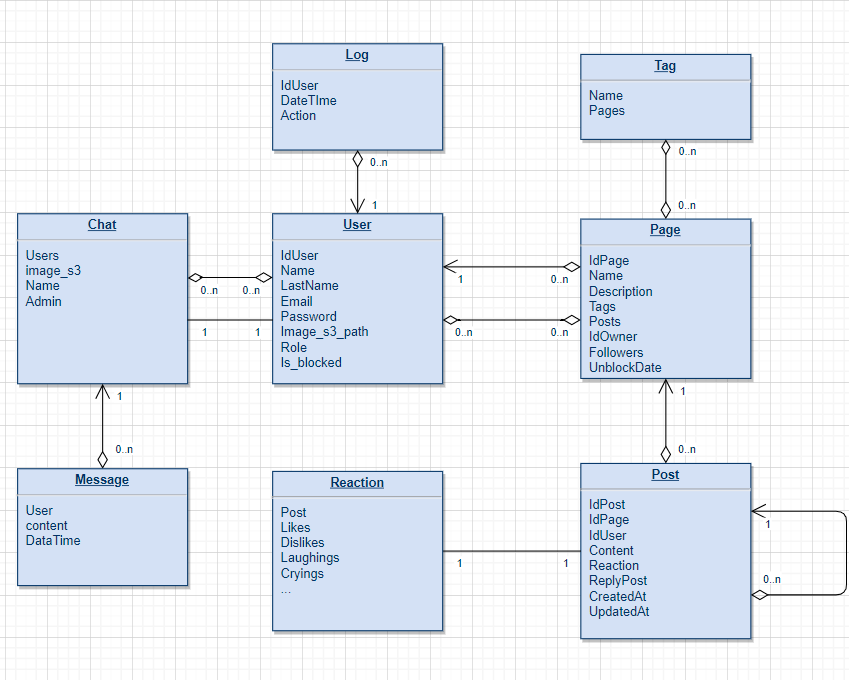
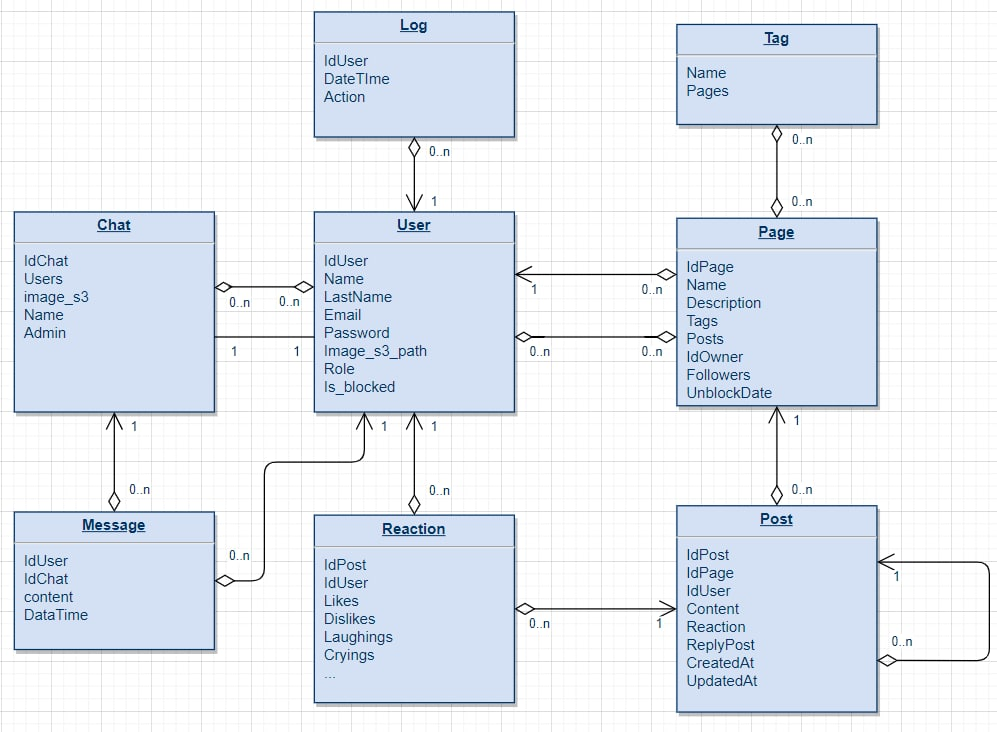
information about tables and atributes

diff --git a/requirements.md b/requirements.md
@@ -25,6 +25,85 @@ DB scheme:
 ![alt text](pictures/diagram.png)
 
 ---
+DB description:
+
+__Highlighted__ fields are primary keys or part of them
+
+* User
+all users, who may use app
+  * __IdUser__ - uuid (universal unical identifier)
+  * Name - text (an user name of the variable length)
+  * LastName - text (an user lastname of the variable length)
+  * Email - text (an user email of the variable length)
+  * Password - text (an user password of the variable length)
+  * Image_s3_path - text (an user avatar image path of the  variable length)
+  * Role - text (an user role of the variable length, cases: user, moderatore, admin)
+  * Is_blocked - bool (is user banned or not)
+  
+* Log
+logs for user actions
+  * __IdUser__ - uuid (foriegn key)
+  * DateTime - time (time of action)
+  * Action - text (an user action for log)
+  
+* Chat
+chat for communication with users
+  * __IdChat__ - uuid
+  * Name - text (a chat name)
+  * Admin - uuid (IdUser, one to one chat admin)
+  
+* ChatUser
+many to many table
+  * __IdChat__ - uuid (foriegn key)
+  * __IdUser__ - uuid (foriegn key)
+  
+* Message
+user message in a chat
+  * __IdChat__ - uuid (foriegn key)
+  * __IdUser__ - uuid (foriegn key)
+  * content - text (message content)
+  * DataTime - time (message sending time)
+  
+* Page
+User's page with own posts and tags
+  * __IdPage__ - uuid
+  * Name - text (page name)
+  * Description - text (description of the page)
+  * IdOwner - uuid (foriegn key)
+  * UnblockDate - time (when would be unbanned)
+  
+* Followers
+many to many table betweeb users and pages
+  * __IdPage__ - uuid (foriegn key)
+  * __IdUser__ - uuid (foriegn key)
+  
+* Tag
+tag to find and group pages
+  * __Name__ - text (tag name)
+  
+* PageTag
+many to many table
+  * __IdPage__ - uuid (foriegn key)
+  * __Name__ - text (foriegn key, tag name)
+  
+* Post
+content of the page, may reply other posts
+  * __IdPost__ - uuid
+  * IdPage - uuid (foriegn key)
+  * IdUser - uuid (foriegn key)
+  * Content - text (post content)
+  * ReplyPostId - uuid (foreign key for reply post)
+  * CreatedAt - time (when created)
+  * UpdatedAt - time (when updated)
+  
+* Reaction
+reaction for the post, user may set some different for posts
+  * __IdPost__ - uuid (foreign key)
+  * __IdUser__ - uuid (foreign key)
+  * Likes - bool
+  * Dislikes - bool
+  ..
+---
 Completed and normalized DB:
 
 ![alt text](pictures/norm_3.png)
